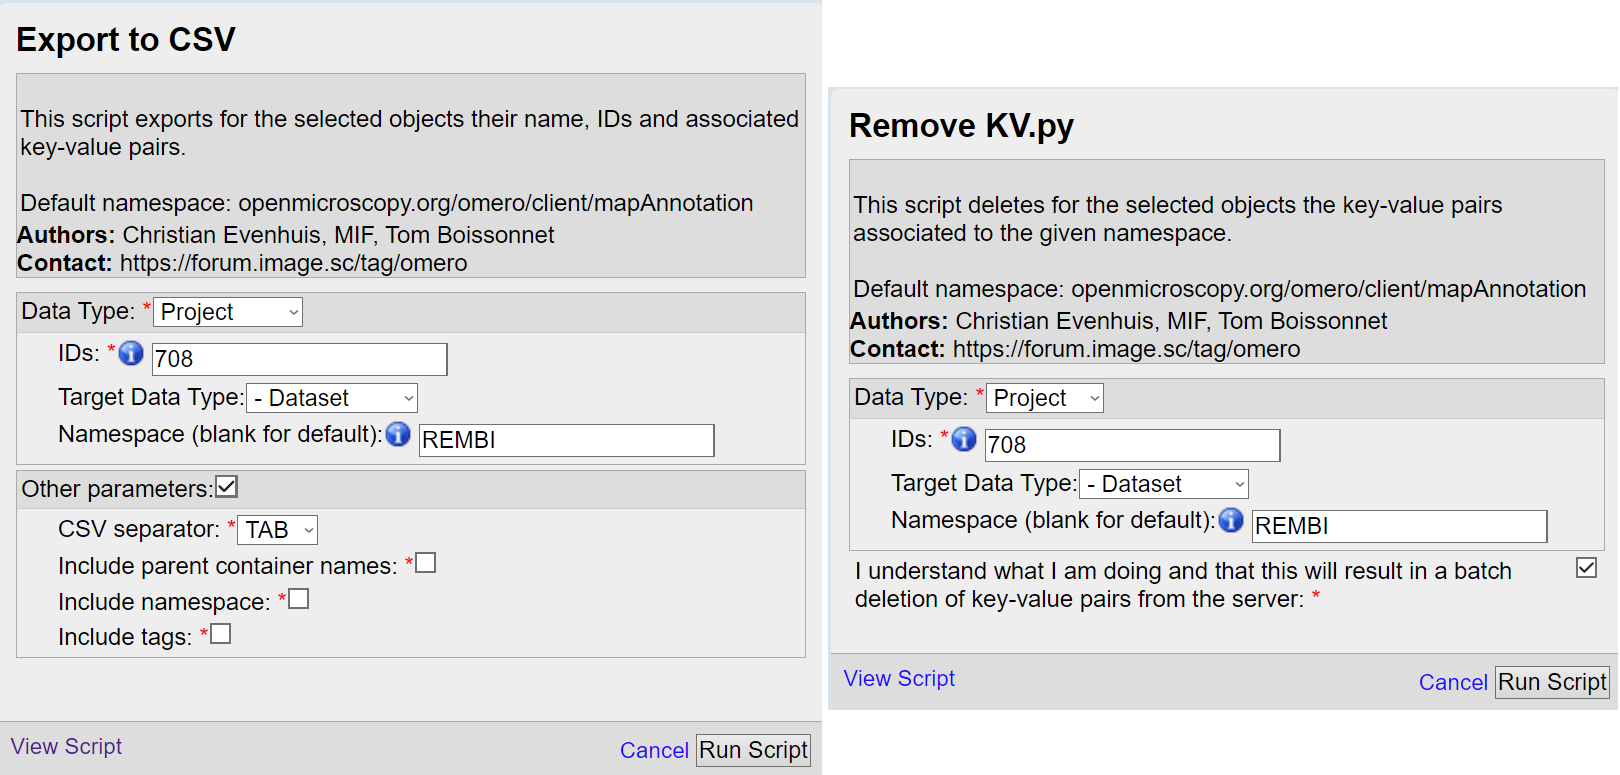
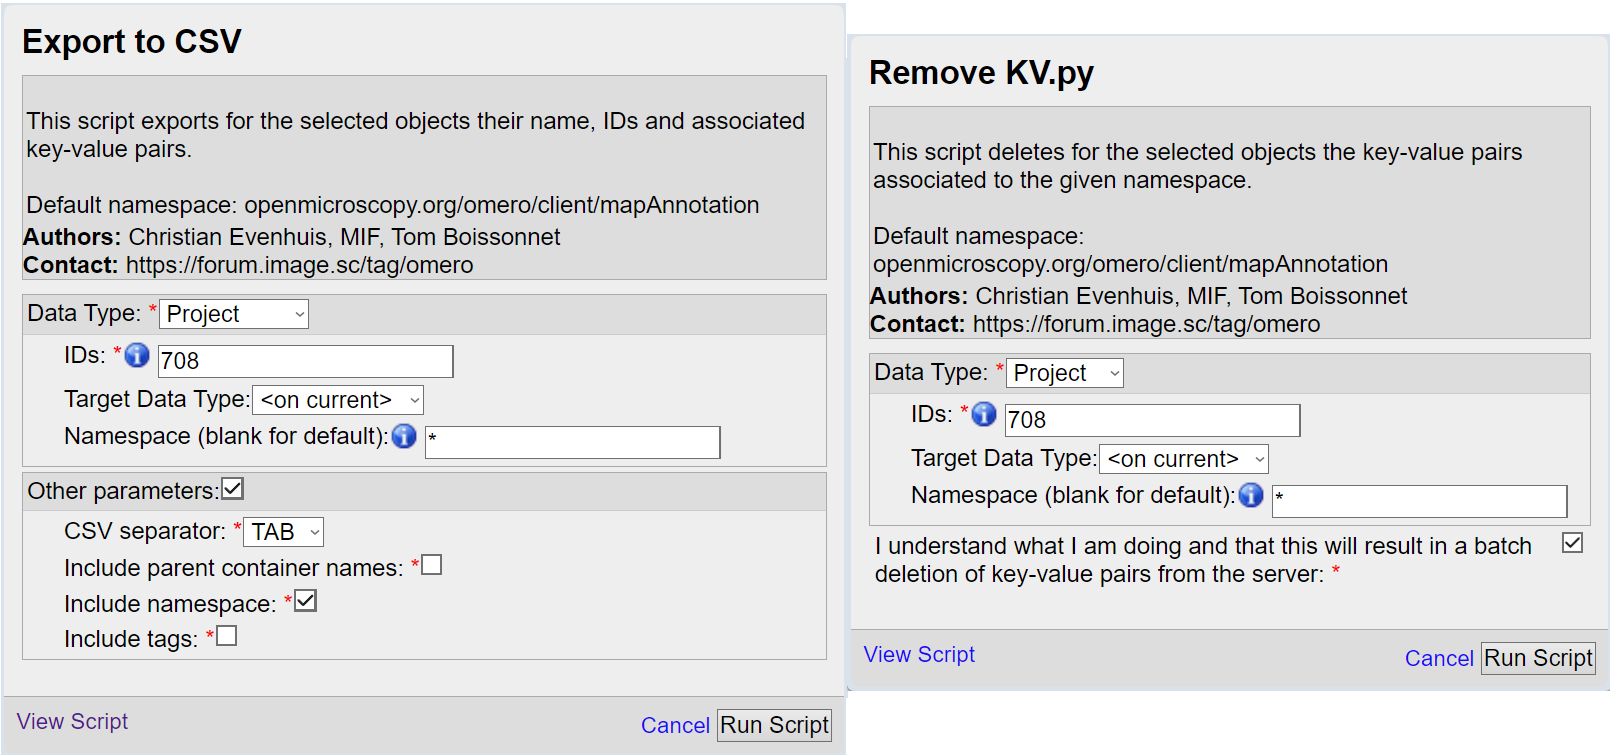
update walkthrough

diff --git a/docs/gettingstarted.rst b/docs/gettingstarted.rst
@@ -95,11 +95,12 @@ Importing Key-Value pairs
 -------------------------
 
 Starting from the file we exported as explained in the previous section, \
-we proceed to edit it within a spreadsheet editor, adding more columns to the csv:
+we proceed to edit it within a spreadsheet editor, adding more columns to the csv, \
+including a row specifying the namespace to assign for each key:
 
 .. figure:: images/5_KV_to_import.png
 
-   *Result of populating the csv shown in a notepad*
+   *Result of populating the csv shown in a text editor*
 ..
 
 We added several columns to annotate our dataset with Key-Value pairs \
@@ -118,7 +119,8 @@ There are many parameters here that could help you fine tune the way to import a
 
 
 We can then see in the OMERO activities that the Key-Value pairs were added to 5 \
-datasets out of the 11 present in this project (as expected).
+datasets out of the 11 present in this project (as expected). We also see three set of \
+key-value pairs, one for each namespace we used in the csv.
 
 .. figure:: images/7_KV_import_printout.png
 
@@ -139,10 +141,9 @@ namespace).
    "client namespace" (``openmicroscopy.org/omero/client/mapAnnotation`` in full)\
    , a special namespace recognized by OMERO.web allowing to edit them.
 
-Let's go ahead and change that default client namespace to something else, \
-that will assign a category to our Key-Value pairs (and make the Key-Value \
-pairs non-editable in the webclient. Note: this does not prevent Key-Value
-pairs from being edited by other means).
+We would like to do a few changes in OMERO.web, and for that we would need to \
+change the namespace to the default OMERO.web namespace. We indicate the namespace we \
+want to edit and leave the second field empty (default namespace is then used).
 
 .. figure:: images/8_convert_namespace.png
 
@@ -160,18 +161,17 @@ And here is our five Key-Value pairs annotations with converted namespace:
 Deleting Key-Value pairs
 ------------------------
 
-Lastly, we will show how to delete annotations. It seems that we were \
-a bit too fast making the last set of annotations, and some Key-Value \
-pairs aren't right.
+It turns out that there are more than a few edits to do on our key-value pairs, and \
+converting back and forth the namespace seems too tedious this time. Let's instead export \
+what we have so far (we have done edits that we don't want to lose), delete "old" the key-value pairs, \
+and reimport when we are done fixing them.
 
-Before deleting them from OMERO, we make sure to have a local copy \
-that we can correct before reimport; Use the Export Key-Value pairs script (\
-providing the namespace of the Key-Value pairs to export).
+Using the same selection inputs for both scripts, we make sure that we have the key-value pairs on our \
+computer before deleting them. Because we want to export/delete multiple namespace at once, we can use the ``*`` \
+to include all namespace.
 
-We can now proceed to delete the Key-Value pairs. Selecting \
-the same parent object and the same namespace as we just did for the export, \
-we can tick the box to confirm that we understand that data will be deleted \
-**forever** from the server.
+Because there is no undo with the deletion of data from OMERO, think twice while checking the confirmation box and clicking \
+the "Run script" button.
 
 .. figure:: images/10_export_delete.png
 
@@ -180,7 +180,7 @@ we can tick the box to confirm that we understand that data will be deleted \
 ..
 
 We can now edit the mistakes in the .csv file and reupload the Key-Value \
-pairs (and why not, specifying the REMBI namespace directly !).
+pairs!.
 
 Make sure to check the :doc:`extended guide </indepth>` to learn about what else you can \
 do with those scripts.
@@ -188,4 +188,4 @@ do with those scripts.
 :Authors:
     Tom Boissonnet
 
-:Version: 1.0 of 2023/11/15
+:Version: 1.0 of 2024/03/01

diff --git a/docs/errors.rst b/docs/errors.rst
@@ -107,3 +107,8 @@ The .csv contains duplicates {DUPL} which makes it impossible to correctly alloc
 When no ID is used to identify the objects to annotate, names are use instead. In that case, there can not \
 be two object with the same name in the csv (and in the selected object on OMERO), in which case it is \
 impossible to identify which object should be annotated.
+
+:Authors:
+    Tom Boissonnet
+
+:Version: 1.0 of 2024/03/01

diff --git a/docs/allparameters.rst b/docs/allparameters.rst
@@ -150,3 +150,8 @@ Allow tag creation
 ------------------
 For the key-value pair import script. When tags are specified in the CSV (under a column named TAG), check this box \
 if you want to allow the creation of tags when they don't exist. This also applies to tagsets.
+
+:Authors:
+    Tom Boissonnet
+
+:Version: 1.0 of 2024/03/01

diff --git a/docs/indepth.rst b/docs/indepth.rst
@@ -181,3 +181,9 @@ in red in the picture bellow.
 
 This output will help you understand what has been done/changed, and may help \
 you understand things when they don't work out the way you expected them.
+
+:Authors:
+    Tom Boissonnet
+    Jens Wendt
+
+:Version: 1.0 of 2024/03/01
